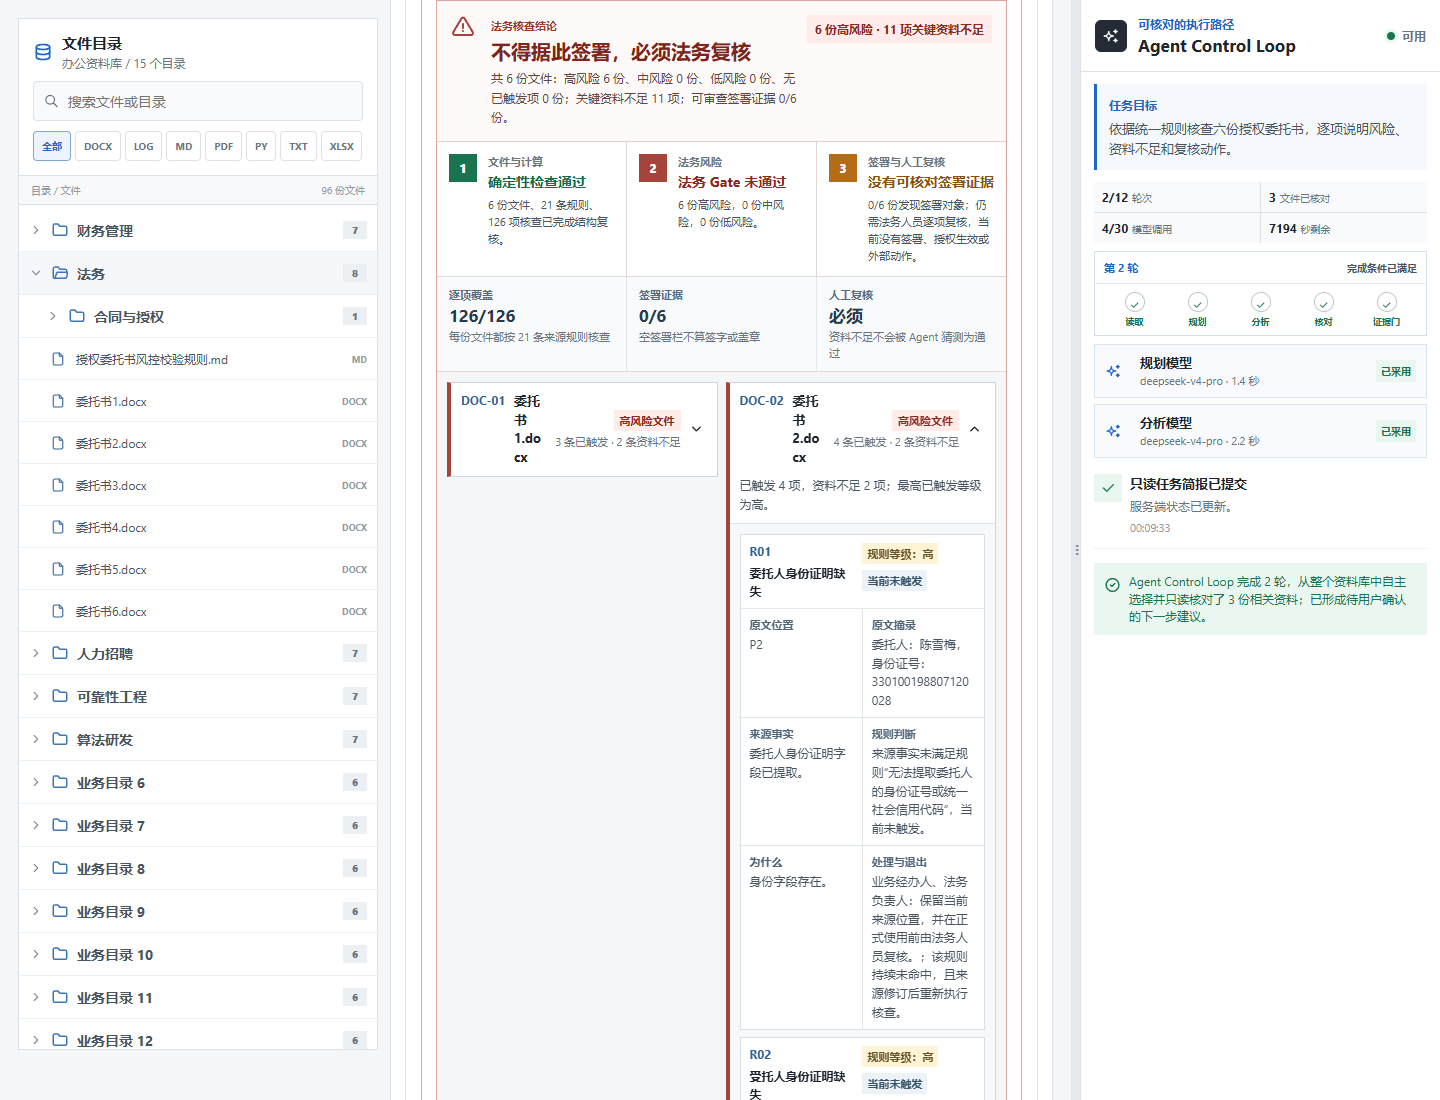
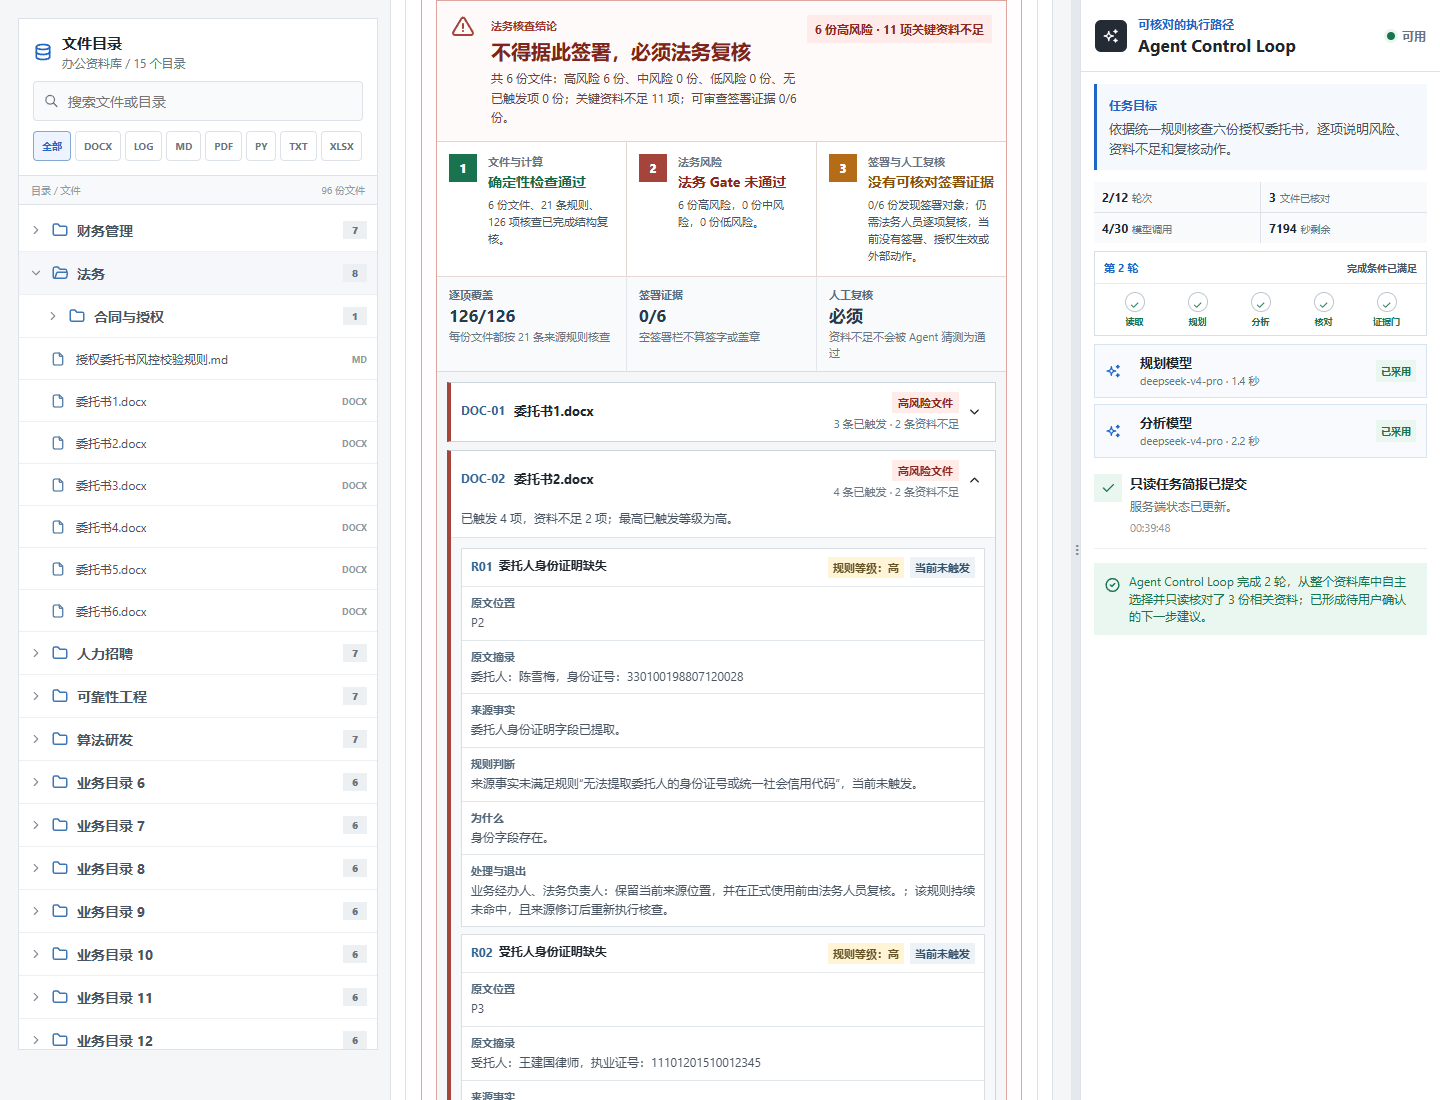
fix(tc07): keep legal review cards readable

Changed region(s): [[0.3125, 0.34, 0.6875, 1.0]]

diff --git a/apps/web/e2e/harness-workbench.spec.ts b/apps/web/e2e/harness-workbench.spec.ts
@@ -2316,6 +2316,7 @@ test("shows TC-07 file verification, legal gate and human review as three separa
   await expect(documentFour).toContainText("委托人行未提取到身份证号或统一社会信用代码");
   await expect(documentFour).toContainText("签署栏为空，DOCX 包内没有 media、drawing、pict、嵌入或数字签名");
   await expect(documentFour).toContainText("资料不足");
+  await documentFour.locator("summary").click();
 
   const documentTwo = legal.locator(".legal-review-documents > details").filter({ hasText: "委托书2.docx" });
   await expect(documentTwo.locator("summary")).toContainText("高风险文件");
@@ -2328,6 +2329,7 @@ test("shows TC-07 file verification, legal gate and human review as three separa
   await expect(lawyerCredential).toContainText("资料不足");
   await expect(lawyerCredential).toContainText("字段存在不等于资质已核验");
 
+  await page.setViewportSize({ width: 1440, height: 1100 });
   const typeSizes = await legal.evaluate((element) => ({
     conclusion: Number.parseFloat(getComputedStyle(element.querySelector(":scope > header h3")!).fontSize),
     statusTitle: Number.parseFloat(getComputedStyle(element.querySelector(".legal-review-statuses strong")!).fontSize),
@@ -2338,11 +2340,38 @@ test("shows TC-07 file verification, legal gate and human review as three separa
   expect(typeSizes.statusTitle).toBeGreaterThanOrEqual(14);
   expect(typeSizes.documentTitle).toBeGreaterThanOrEqual(13);
   expect(typeSizes.assessmentText).toBeGreaterThanOrEqual(12);
+  const desktopGeometry = await legal.evaluate((element) => {
+    const documents = element.querySelector<HTMLElement>(".legal-review-documents")!;
+    const cards = Array.from(documents.querySelectorAll<HTMLElement>(":scope > details"));
+    const titles = Array.from(documents.querySelectorAll<HTMLElement>(":scope > details > summary strong"));
+    const openDocumentFacts = Array.from(documents.querySelectorAll<HTMLElement>(":scope > details[open] dl > div"));
+    const documentColumns = getComputedStyle(documents).gridTemplateColumns.split(/\s+/).filter(Boolean).length;
+    const openDocumentGrid = documents.querySelector<HTMLElement>(":scope > details[open] dl");
+    const factColumns = openDocumentGrid
+      ? getComputedStyle(openDocumentGrid).gridTemplateColumns.split(/\s+/).filter(Boolean).length
+      : 0;
+    const titleLineCounts = titles.map((title) => {
+      const lineHeight = Number.parseFloat(getComputedStyle(title).lineHeight);
+      return title.getBoundingClientRect().height / lineHeight;
+    });
+    return {
+      documentColumns,
+      factColumns,
+      minCardWidth: Math.min(...cards.map((card) => card.getBoundingClientRect().width)),
+      minFactWidth: Math.min(...openDocumentFacts.map((fact) => fact.getBoundingClientRect().width)),
+      maxTitleLines: Math.max(...titleLineCounts),
+      overflow: documents.scrollWidth - documents.clientWidth,
+    };
+  });
+  expect(desktopGeometry.documentColumns === 1 || desktopGeometry.minCardWidth >= 320).toBeTruthy();
+  expect(desktopGeometry.minCardWidth).toBeGreaterThanOrEqual(320);
+  expect(desktopGeometry.factColumns === 1 || desktopGeometry.minFactWidth >= 300).toBeTruthy();
+  expect(desktopGeometry.maxTitleLines).toBeLessThanOrEqual(2.05);
+  expect(desktopGeometry.overflow).toBeLessThanOrEqual(0);
   let overflow = await page.evaluate(() => ({ width: document.documentElement.clientWidth, scroll: document.documentElement.scrollWidth }));
   expect(overflow.scroll).toBeLessThanOrEqual(overflow.width);
 
   if (process.env.CAPTURE_TC07_EFFECT_EVIDENCE === "1") {
-    await page.setViewportSize({ width: 1440, height: 1100 });
     const expandedFinance = page.getByRole("treeitem", { name: "收起文件夹 财务管理" });
     if (await expandedFinance.isVisible()) await expandedFinance.click();
     const collapsedLegal = page.getByRole("treeitem", { name: "展开文件夹 法务" });
@@ -2358,8 +2387,24 @@ test("shows TC-07 file verification, legal gate and human review as three separa
   await expect(legal.getByRole("heading", { name: "不得据此签署，必须法务复核" })).toBeVisible();
   overflow = await page.evaluate(() => ({ width: document.documentElement.clientWidth, scroll: document.documentElement.scrollWidth }));
   expect(overflow.scroll).toBeLessThanOrEqual(overflow.width);
-  const legalOverflow = await legal.evaluate((element) => ({ width: element.clientWidth, scroll: element.scrollWidth }));
+  const legalOverflow = await legal.evaluate((element) => {
+    const documents = element.querySelector<HTMLElement>(".legal-review-documents")!;
+    const titleLineCounts = Array.from(documents.querySelectorAll<HTMLElement>(":scope > details > summary strong")).map((title) => {
+      const lineHeight = Number.parseFloat(getComputedStyle(title).lineHeight);
+      return title.getBoundingClientRect().height / lineHeight;
+    });
+    return {
+      width: element.clientWidth,
+      scroll: element.scrollWidth,
+      documentColumns: getComputedStyle(documents).gridTemplateColumns.split(/\s+/).filter(Boolean).length,
+      maxTitleLines: Math.max(...titleLineCounts),
+      documentOverflow: documents.scrollWidth - documents.clientWidth,
+    };
+  });
   expect(legalOverflow.scroll).toBeLessThanOrEqual(legalOverflow.width);
+  expect(legalOverflow.documentColumns).toBe(1);
+  expect(legalOverflow.maxTitleLines).toBeLessThanOrEqual(2.05);
+  expect(legalOverflow.documentOverflow).toBeLessThanOrEqual(0);
   if (process.env.CAPTURE_TC07_EFFECT_EVIDENCE === "1") {
     await legal.evaluate((element) => element.scrollIntoView({ block: "start" }));
     await page.screenshot({ path: "../../docs/evidence/screenshots/tc07-source-derived-legal-review-mobile.png" });

diff --git a/apps/web/app/styles.css b/apps/web/app/styles.css
@@ -509,7 +509,7 @@ button:focus-visible, input:focus-visible, textarea:focus-visible, summary:focus
 .legal-review-summary span { display: block; color: #566b7e; font-size: 11px; font-weight: 750; }
 .legal-review-summary strong { display: block; margin-top: 2px; color: #263b4d; font-size: 17px; }
 .legal-review-summary p { margin: 3px 0 0; color: var(--muted); font-size: 11px; line-height: 1.45; }
-.legal-review-documents { display: grid; grid-template-columns: repeat(2, minmax(0, 1fr)); gap: 8px; padding: 10px; background: #f4f6f8; }
+.legal-review-documents { display: grid; grid-template-columns: repeat(auto-fit, minmax(min(100%, 340px), 1fr)); gap: 8px; padding: 10px; background: #f4f6f8; }
 .legal-review-documents > details { min-width: 0; align-self: start; border: 1px solid #ccd5dc; border-left: 4px solid #8797a5; background: #fff; }
 .legal-review-documents > details.is-high { border-left-color: var(--red); }
 .legal-review-documents > details.is-medium { border-left-color: #d5781c; }
@@ -517,7 +517,7 @@ button:focus-visible, input:focus-visible, textarea:focus-visible, summary:focus
 .legal-review-documents > details > summary { min-height: 58px; display: grid; grid-template-columns: minmax(0, 1fr) auto 18px; align-items: center; gap: 8px; padding: 9px 10px; cursor: pointer; }
 .legal-review-documents > details > summary > span:first-child { min-width: 0; display: grid; grid-template-columns: 46px minmax(0, 1fr); gap: 7px; align-items: start; }
 .legal-review-documents > details > summary > span:first-child > b { color: #2f628f; font-size: 12px; }
-.legal-review-documents > details > summary > span:first-child > strong { overflow-wrap: anywhere; font-size: 13px; line-height: 1.45; }
+.legal-review-documents > details > summary > span:first-child > strong { min-width: 0; font-size: 13px; line-height: 1.45; overflow-wrap: normal; word-break: keep-all; }
 .legal-review-documents > details > summary > span:nth-child(2) { display: flex; flex-direction: column; align-items: flex-end; gap: 3px; }
 .legal-review-documents summary em { padding: 3px 6px; color: #8d281f; background: #ffebe8; font-size: 11px; font-style: normal; font-weight: 750; white-space: nowrap; }
 .legal-review-documents summary small { color: var(--muted); font-size: 11px; white-space: nowrap; }
@@ -537,7 +537,7 @@ button:focus-visible, input:focus-visible, textarea:focus-visible, summary:focus
 .legal-review-documents > details > ol > li > header mark { color: #35536d; background: #edf2f6; }
 .legal-review-documents > details > ol > li.is-triggered > header mark { color: #8d281f; background: #ffebe8; }
 .legal-review-documents > details > ol > li.is-unverifiable > header mark { color: #85510f; background: #fff0d8; }
-.legal-review-documents dl { display: grid; grid-template-columns: repeat(2, minmax(0, 1fr)); gap: 1px; margin: 0; background: #e1e6ea; }
+.legal-review-documents dl { display: grid; grid-template-columns: repeat(auto-fit, minmax(min(100%, 320px), 1fr)); gap: 1px; margin: 0; background: #e1e6ea; }
 .legal-review-documents dl > div { min-width: 0; padding: 8px 9px; background: #fff; }
 .legal-review-documents dt { color: #52677a; font-size: 11px; font-weight: 750; }
 .legal-review-documents dd { margin: 3px 0 0; overflow-wrap: anywhere; color: var(--ink-soft); font-size: 12px; line-height: 1.55; }
@@ -1083,7 +1083,6 @@ button:focus-visible, input:focus-visible, textarea:focus-visible, summary:focus
   .business-ledger > ol { grid-template-columns: 1fr; }
   .legal-review-statuses { grid-template-columns: 1fr; }
   .legal-review-summary { grid-template-columns: 1fr 1fr 1fr; }
-  .legal-review-documents { grid-template-columns: 1fr; }
   .workspace-artifacts > ol > li { grid-template-columns: minmax(0, 1fr) auto; }
   .workspace-artifact-semantics.has-deliverable-type { grid-template-columns: 1fr 1fr; }
   .workspace-artifact-status { align-items: flex-start; }

diff --git a/docs/decisions/SOURCE_REGISTER.md b/docs/decisions/SOURCE_REGISTER.md
@@ -132,3 +132,4 @@
 | `DR-0043-TC11-DERIVED-RELEASE-GATES-EVIDENCE-20260828` | 源码、来源行变异、负向合同、真实 Provider、下载解析、PostgreSQL、前台与截图 Evidence | [`DR-0043-TC11-DERIVED-RELEASE-GATES-EVIDENCE-20260828.md`](../evidence/DR-0043-TC11-DERIVED-RELEASE-GATES-EVIDENCE-20260828.md)；[`tc11-business-gate-outcome-20260828.json`](../evidence/manifests/tc11-business-gate-outcome-20260828.json)；[`tc11-live-derived-release-gates-20260828.json`](../evidence/manifests/tc11-live-derived-release-gates-20260828.json)；截图 manifest [`tc11-ui-screenshots-20260828.json`](../evidence/manifests/tc11-ui-screenshots-20260828.json)；Run `harness:d1a3d9fca21d4e2299ac308bbaf73e1e`，Owner `X-User-Id: tc11-live-20260828`；[PR #57](https://github.com/Dickey007s/lenovo_agent/pull/57) / [PR #58](https://github.com/Dickey007s/lenovo_agent/pull/58) | 2026-08-28，status `Limited Verified`；来源变异与负向门通过，DOCX 6 表、CSV 18 行，Planner/Analyst 均调用且采用，API/真实 PostgreSQL 重启后两份 Artifact 与 18 项业务台账保留；二次验收覆盖 7 项风险完整 Effect、PRD 等级变异和远端 PostgreSQL Run `33183307581` | 证明固定 pm-014 纵切的风险及文案随来源变化、四条正式 Gate 与辅助指标分离、失败不伪绿、下载解析和顺序恢复；Artifact 通过与业务 Gate/Run 状态分开 | 不证明任意发布资料、用户理解、模型稳定质量、真实上线、配置写入、多 Worker、多实例并发或外部动作 | Office Agent 项目组 | `DR-0043 / Limited Verified` |
 | `USER-FEEDBACK-20260828-TC07-SOURCE-DERIVED-LEGAL-REVIEW` | Stakeholder 场景验收、原始 DOCX 包审计、历史固定答案与字段串线复核 | [`USER-FEEDBACK-20260828-tc07-source-derived-legal-review.md`](../sources/USER-FEEDBACK-20260828-tc07-source-derived-legal-review.md) | 2026-08-28，Asia/Shanghai | 支持把 TC-07 升级为来源推导 21 条规则、126 行台账、R05/M03 纠偏、Registry 缺失边界和三状态前台 | 单一 Stakeholder 反馈与源码审计不是正式法律意见、用户研究、签名鉴定、授权生效判断或通用合同审查证据 | Office Agent 项目组 | `DR-0044` |
 | `DR-0044-TC07-SOURCE-DERIVED-LEGAL-REVIEW-EVIDENCE-20260828` | 源码、来源变异、负向合同、真实 Provider、DOCX/CSV 下载解析、PostgreSQL、前台与截图 Evidence | [`DR-0044-TC07-SOURCE-DERIVED-LEGAL-REVIEW-EVIDENCE-20260828.md`](../evidence/DR-0044-TC07-SOURCE-DERIVED-LEGAL-REVIEW-EVIDENCE-20260828.md)；公共前台事实 [`tc07-public-legal-review-outcome-20260828.json`](../evidence/manifests/tc07-public-legal-review-outcome-20260828.json)；live [`tc07-live-source-derived-legal-review-20260829.json`](../evidence/manifests/tc07-live-source-derived-legal-review-20260829.json)；下载复读 [`tc07-live-artifact-download-review-20260829.json`](../evidence/manifests/tc07-live-artifact-download-review-20260829.json)；截图 [`tc07-ui-screenshots-20260829.json`](../evidence/manifests/tc07-ui-screenshots-20260829.json)；实现 [`6b0612d`](https://github.com/Dickey007s/lenovo_agent/commit/6b0612d47a0a9b901eeb166a05ac524531a0056f)；[PR #59](https://github.com/Dickey007s/lenovo_agent/pull/59)；[PostgreSQL job](https://github.com/Dickey007s/lenovo_agent/actions/runs/33189927042/job/98912504839) | 2026-08-29，status `Limited Verified`；本地 Python `176 passed`、Playwright `43 passed`、Ruff/lint/build 通过；远端 PostgreSQL 17.11 `6 passed`；真实 Run `harness:fa527bfb5b054401a6a16f77bf40f4b9` | 证明一份规则与六份 DOCX 的严格合同、主体字段隔离、21×6 判断、六份 R05、M03 Registry 边界、动态 6 高风险/11 资料不足/0 签署证据、repaired 5/6 与 1/6 前台投影、下载解析及顺序 PostgreSQL 复读 | 不证明正式法律意见、签名真伪、律师资格、授权有效、用户理解、任意合同审查、多 Worker、多实例并发或外部动作 | Office Agent 项目组 | `DR-0044 / Limited Verified` |
+| `USER-FEEDBACK-20260829-TC07-CONTAINER-READABILITY` | Stakeholder 合并后截图复核 | [`USER-FEEDBACK-20260829-tc07-container-readable-document-cards.md`](../sources/USER-FEEDBACK-20260829-tc07-container-readable-document-cards.md) | 2026-08-29，Asia/Shanghai | 支持让 TC-07 文档卡与逐规则事实按中央内容容器宽度自适应，并以 1440/390 px 几何门约束卡片宽度、文件名行数和溢出 | 单一 Stakeholder 反馈与浏览器回归不证明用户理解、法务质量或生产浏览器覆盖 | Office Agent 项目组 | `DR-0044 后续可读性修正` |

diff --git a/docs/evidence/DR-0044-TC07-SOURCE-DERIVED-LEGAL-REVIEW-EVIDENCE-20260828.md b/docs/evidence/DR-0044-TC07-SOURCE-DERIVED-LEGAL-REVIEW-EVIDENCE-20260828.md
@@ -34,6 +34,14 @@
 - 视觉证据：[`tc07-ui-screenshots-20260829.json`](manifests/tc07-ui-screenshots-20260829.json) 记录普通三栏桌面和 390 px 截图。桌面左栏展开法务规则与六份委托书；目录展开只是浏览器查看状态，不提交 `selected_file_refs`，也不改变 `whole_workspace` Run scope。
 - PR、远端 `durable-agent-control-loop`：[PR #59](https://github.com/Dickey007s/lenovo_agent/pull/59) 的实现门 [run `33189927042` / job `98912504839`](https://github.com/Dickey007s/lenovo_agent/actions/runs/33189927042/job/98912504839) 为 `6 passed in 14.26s`；Evidence 回写门 [run `33190097561` / job `98913087056`](https://github.com/Dickey007s/lenovo_agent/actions/runs/33190097561/job/98913087056) 为 `6 passed in 14.82s`，两轮均使用真实 PostgreSQL 17.11。
 
+## 2026-08-29 合并后容器可读性修正
+
+- PR #59 的首张 1440 px 证据图虽然是无 CSS 注入的真实三栏页面，但中央法务结果区只有约 570 px，旧样式仍按 viewport 强制两列。卡片宽度约被减半，文件名拆成四到五行，展开规则的两列事实格也明显过窄。该负例只说明前台布局回归，不改变六份文件、126 条判断或任何后端法务事实。
+- 修正后文档列表使用内容宽度驱动的 `auto-fit/minmax`；文档卡低于 340 px 目标时退成一列，展开事实低于 320 px 目标时同样退成一列。文件名禁止按中文字符任意拆词，但仍由 390 px 溢出门保护。
+- E2E 在 1440×1100 的普通三栏状态读取真实 grid geometry：列表为一列，或每张卡至少 320 px；展开事实为一列，或每格至少 300 px；所有文件名不超过两行。390×844 必须单列，页面、法务结果区和文档列表的横向溢出均为 0。
+- 本地收尾门为 TC-07 Playwright `3 passed`，另有带截图的 canonical `1 passed`；`pnpm --dir apps/web lint`、`pnpm --dir apps/web build`、`uv run ruff check .` 和 `git diff --check` 均通过。
[1 lines of base64/hex data omitted]
+
 ## 不能支持的结论
 
 当前适配器不构成正式法律意见，不验证手写或数字签名真伪，不认定授权生效，不替代律师资格 Registry、法院许可或关联主体材料，不会签署、盖章、发送、修改原件或执行外部动作。自动化和截图不证明真实用户理解、决策质量或生产法律合规，也不证明通用合同审查、多 Worker、多实例并发安全或生产 Connector 已实现。

diff --git a/docs/sources/USER-FEEDBACK-20260829-tc07-container-readable-document-cards.md b/docs/sources/USER-FEEDBACK-20260829-tc07-container-readable-document-cards.md
@@ -1,0 +1,22 @@
+# 用户反馈：TC-07 文档卡必须跟随内容区宽度
+
+## 来源
+
+- Source ID：`USER-FEEDBACK-20260829-TC07-CONTAINER-READABILITY`
+- 类型：Stakeholder 合并后页面截图复核
+- 日期：2026-08-29，Asia/Shanghai
+- 关联：`DR-0044`、`SCENARIO-030`、TC-07
+
+## 反馈事实
+
+PR #59 合并后的 1440 px 三栏页面中，中央成果区实际只有约 570 px，但授权委托书列表仍依据浏览器 viewport 采用两列。每张卡因此过窄，`委托书1.docx`、`委托书2.docx` 被拆成四到五行，展开后的来源事实与规则判断也被压成窄列。服务端的法务结论和 126 条台账没有变化，问题只发生在前台布局投影。
+
+## 交互要求
+
+文档列表必须按自身内容宽度决定一列或两列，而不是把 1440 px 浏览器误当成中央面板宽度。常见桌面状态下，每张卡至少保持可读宽度，文件名最多两行；展开后的原文位置、摘录、来源事实、规则判断和处置条件也应按内容宽度退成一列。390 px 页面继续保持单列且不得横向滚动。
+
+E2E 除截图外还要读取真实几何和 computed style：1440 px 状态下列表只能是一列，或每张卡至少 320 px；文件名不超过两行；展开事实只能是一列，或每格至少 300 px；桌面、390 px 页面和法务结果容器均无横向溢出。
+
+## 边界
+
+这条反馈支持修复 TC-07 的响应式可读性，不改变 `legal_review_outcome`、`business_gate_outcome`、Artifact、EffectReceipt 或任何后端法务判断。单一 Stakeholder 截图复核和浏览器自动化不能证明目标用户理解、法律判断质量或生产浏览器覆盖。

diff --git a/docs/decisions/DR-0044-tc07-source-derived-legal-delegation-review.md b/docs/decisions/DR-0044-tc07-source-derived-legal-delegation-review.md
@@ -16,6 +16,7 @@
 7. 输出真实 `授权委托书风控报告.docx` 和 `授权委托书逐项核查台账.csv`。Verifier 必须重新读取批准来源并复算规则、状态、最高等级、位置、摘要与 126 行守恒，不能用报告结论反向验证报告。
 8. 前台投影三个并列状态：确定性文件/计算验证、法务业务 Gate、签署与人工复核。`verifier_status=passed` 不覆盖 `business_gate_outcome.status=failed`，也不改变 `legal_review_outcome.human_review_required=true`。
 9. 原 FORTE 输入保持只读，`external_action=none`。当前系统不签署文件、不验证签名真伪、不认定授权有效，也不提供正式法律意见。
+10. 文档列表与逐规则事实区按内容容器宽度自适应，不再依据整个 viewport 强制两列。窄中央工作区退成一列；只有卡片和事实单元达到可读宽度时才增加列数。这个浏览器布局事实不改变任何法务结论或服务端计数。
 
 ## 前后端事实
 
@@ -45,3 +46,4 @@
 - 空正文、缺一份、未知第七份、重复逻辑 ID、相同内容冒充两份、规则表损坏、日期非法/倒置和字段冲突均失败。
 - 篡改 DOCX/CSV、缺行、重复行或固定旧摘要均使两份 Artifact 与 EffectReceipt 失败。
 - 真实 PostgreSQL 重启后两份 Artifact、三状态事实、126 条台账与下载 bytes 一致；只证明顺序 Runtime 已提交恢复。
+- 1440 px 普通三栏和 390 px 页面均检查文档卡宽度、文件名行数、展开事实宽度与页面溢出；截图只证明被测布局，不证明用户理解。

diff --git a/docs/scenarios/SCENARIO-030-review-six-delegations-with-source-derived-rules.md b/docs/scenarios/SCENARIO-030-review-six-delegations-with-source-derived-rules.md
@@ -37,6 +37,7 @@
 - 两份成果可下载并独立解析；CSV 恰好 126 条唯一文档/规则组合，DOCX 含来源、六份摘要、逐规则台账、人工复核与边界表。
 - 所有结论均能追溯到来源规则、来源文件与段落或表格位置；主体字段不串线。
 - 来源修复只改变受影响文件；规则等级变异改变相应台账与汇总；旧固定“2 高/4 中”不能通过 Verifier。
+- 1440 px 三栏页面按中央内容宽度显示一列或足够宽的文档卡，文件名最多两行；390 px 保持单列，展开规则与页面均无横向溢出。
 - 原 FORTE 输入字节不变，`external_action=none`。
 
 ## 来源与边界
